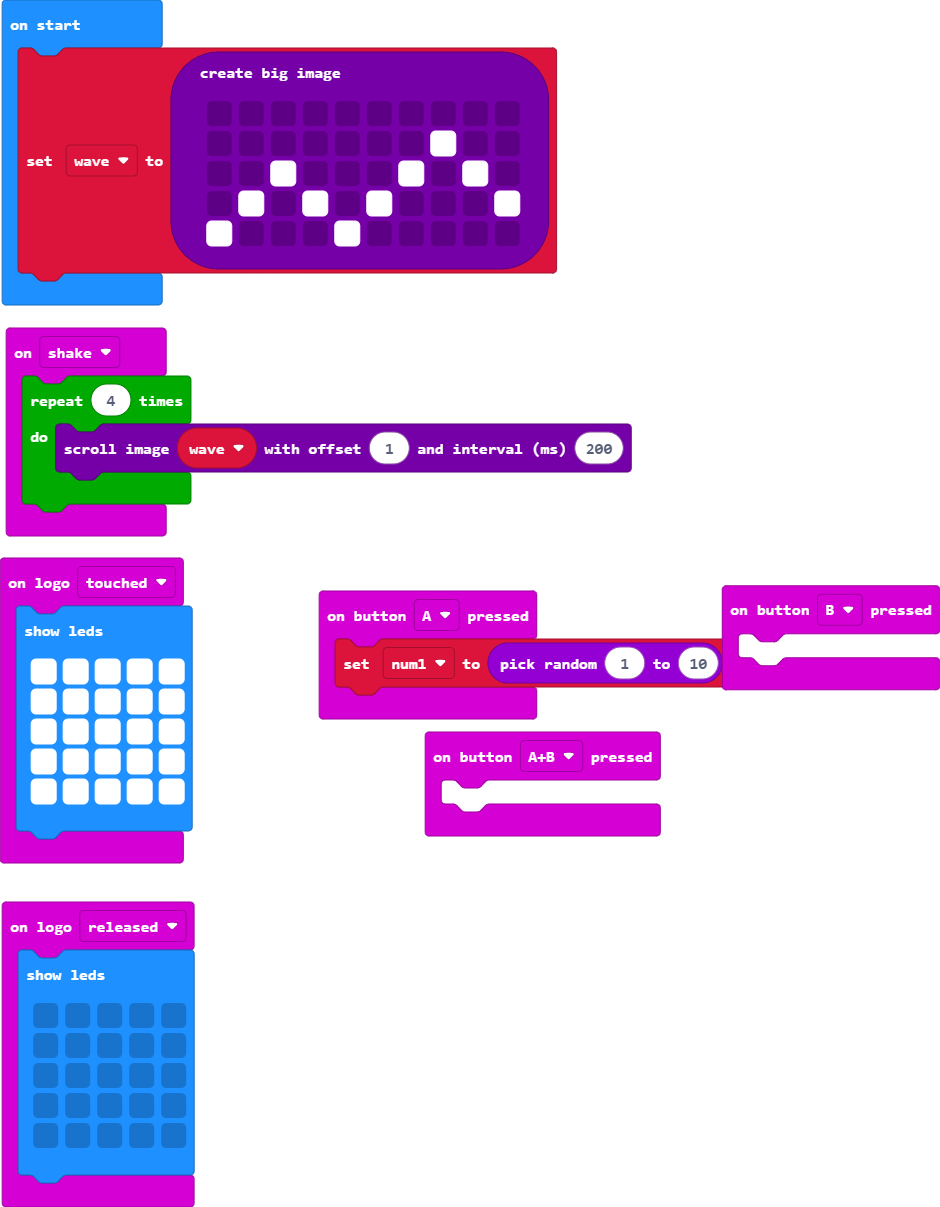
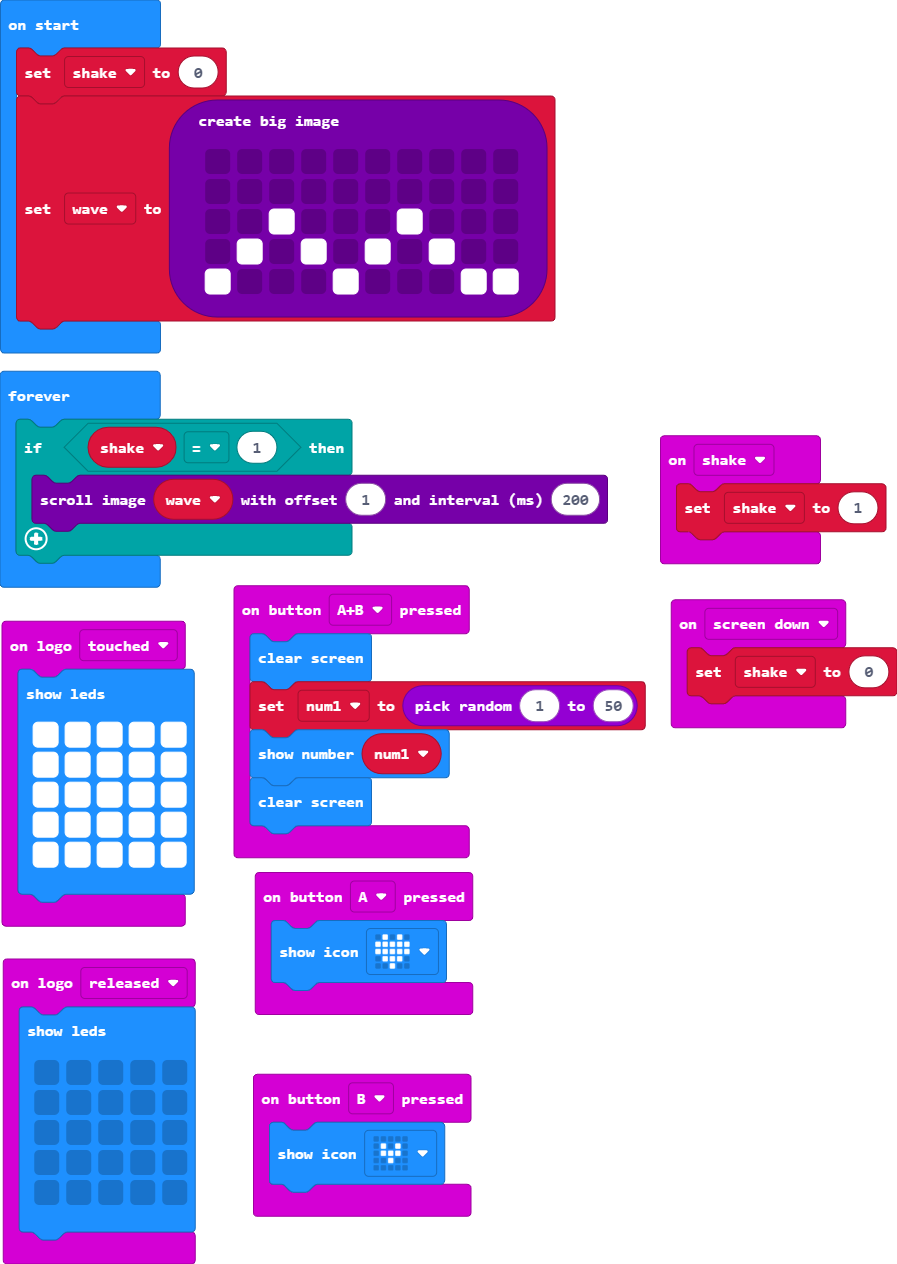
Update main.blocks, main.ts

diff --git a/main.ts b/main.ts
@@ -1,16 +1,20 @@
 input.onButtonPressed(Button.A, function () {
-    num1 = randint(1, 10)
+    basic.showIcon(IconNames.Heart)
+})
+input.onGesture(Gesture.ScreenDown, function () {
+    shake = 0
 })
 input.onButtonPressed(Button.AB, function () {
-	
+    basic.clearScreen()
+    num1 = randint(1, 50)
+    basic.showNumber(num1)
+    basic.clearScreen()
 })
 input.onButtonPressed(Button.B, function () {
-	
+    basic.showIcon(IconNames.SmallHeart)
 })
 input.onGesture(Gesture.Shake, function () {
-    for (let index = 0; index < 4; index++) {
-        wave.scrollImage(1, 200)
-    }
+    shake = 1
 })
 input.onLogoEvent(TouchButtonEvent.Touched, function () {
     basic.showLeds(`
@@ -31,11 +35,17 @@ input.onLogoEvent(TouchButtonEvent.Released, function () {
         `)
 })
 let num1 = 0
-let wave: Image = null
-wave = images.createBigImage(`
+let shake = 0
+shake = 0
+let wave = images.createBigImage(`
     . . . . . . . . . .
-    . . . . . . . # . .
-    . . # . . . # . # .
-    . # . # . # . . . #
-    # . . . # . . . . .
+    . . . . . . . . . .
+    . . # . . . # . . .
+    . # . # . # . # . .
+    # . . . # . . . # #
     `)
+basic.forever(function () {
+    if (shake == 1) {
+        wave.scrollImage(1, 200)
+    }
+})
